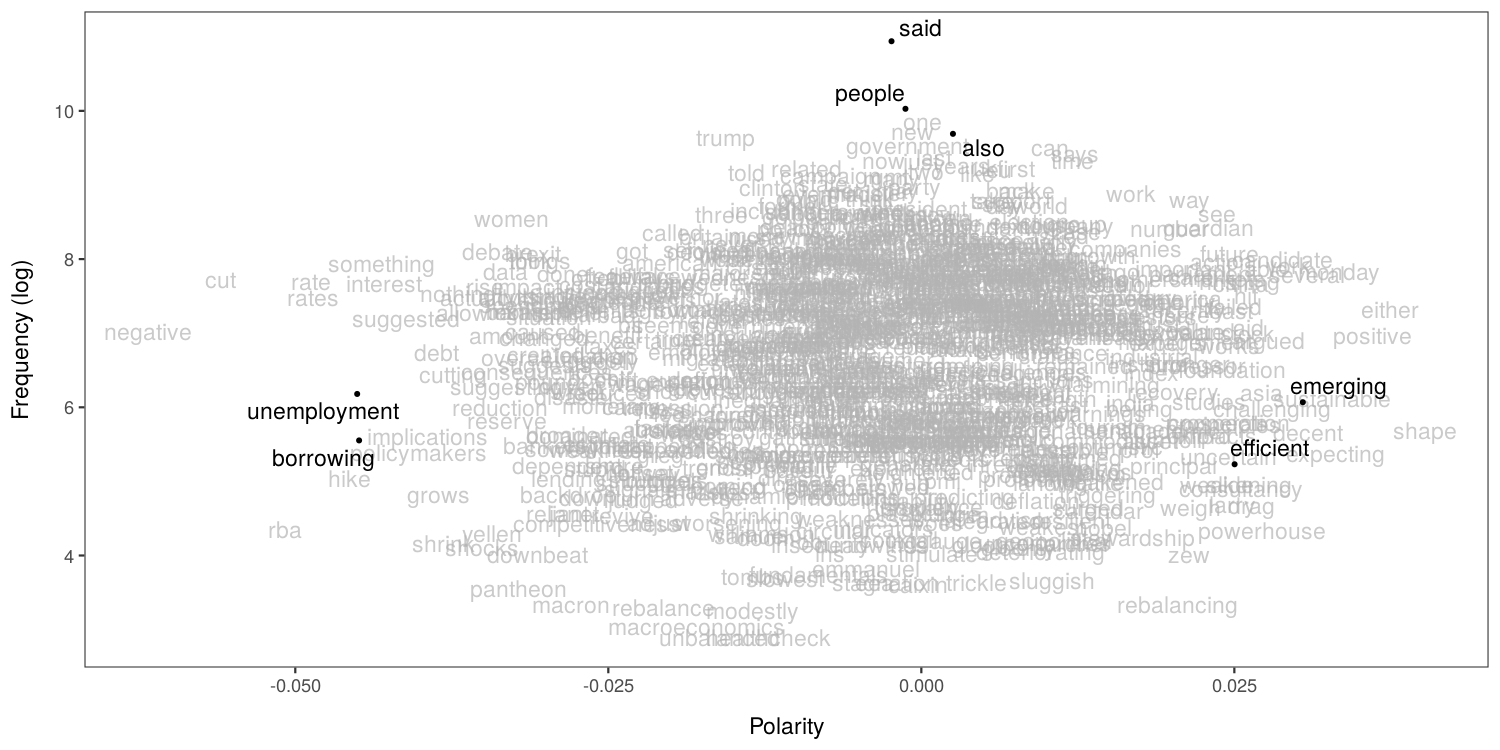
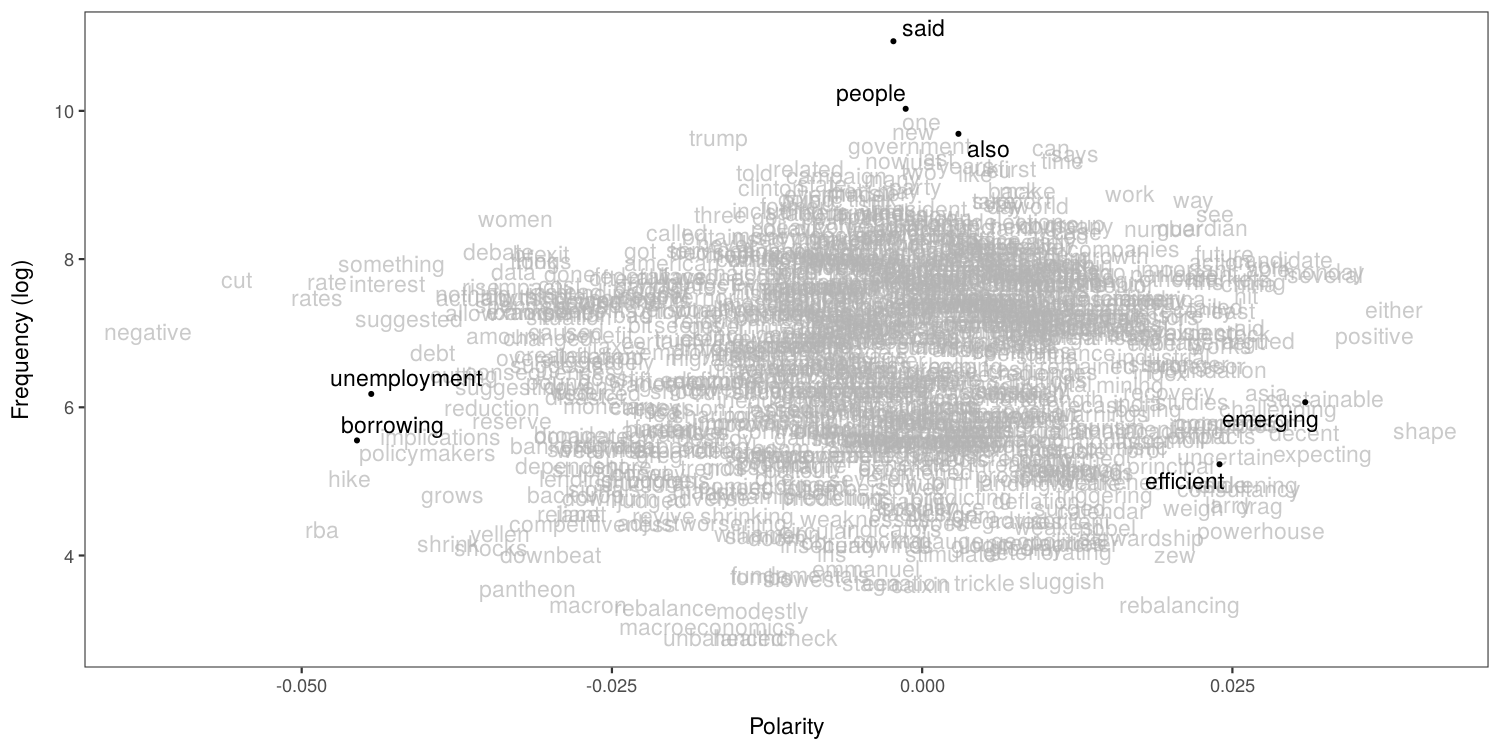
Include download code

diff --git a/README.md b/README.md
@@ -10,23 +10,23 @@ semisupervised document scaling method that I developed to perform large
 scale analysis at low cost. Taking user-provided *seed words* as weak
 supervision, it estimates polarity of words in the corpus by latent
 semantic analysis and locates documents on a unidimensional scale
-(e.g. sentiment).
+(e.g. sentiment).
 
 I used LSS for large scale analysis of media content in several research
 projects:
 
   - Kohei Watanabe, 2017. “[Measuring News Bias: Russia’s Official News
     Agency ITAR-TASS’s Coverage of the Ukraine
-    Crisis](https://journals.sagepub.com/eprint/TBc9miIc89njZvY3gyAt/full)”,
+    Crisis](http://journals.sagepub.com/eprint/TBc9miIc89njZvY3gyAt/full)”,
     *European Journal Communication*
   - Kohei Watanabe, 2017. “[The spread of the Kremlin’s narratives by a
     western news agency during the Ukraine
-    crisis](https://www.tandfonline.com/eprint/h2IHsz2YKce6uJeeCmcd/full)”,
+    crisis](http://www.tandfonline.com/eprint/h2IHsz2YKce6uJeeCmcd/full)”,
     *Journal of International Communication*
   - Tomila Lankina and Kohei Watanabe. 2017. ["Russian Spring’ or
     ‘Spring Betrayal’? The Media as a Mirror of Putin’s Evolving
     Strategy in
-    Ukraine](https://www.tandfonline.com/eprint/tWik7KDfsZv8C2KeNkI5/full)",
+    Ukraine](http://www.tandfonline.com/eprint/tWik7KDfsZv8C2KeNkI5/full)",
     *Europe-Asia Studies*
 
 Please read [my working
@@ -57,8 +57,10 @@ require(LSX) # changed from LSS to LSX
 ```
 
 ``` r
-corp <- readRDS("/home/kohei/Dropbox/Public/data_corpus_guardian2016-10k.rds")
+corp <- readRDS(url("https://bit.ly/2GZwLcN", "rb"))
+```
 
+``` r
 toks_sent <- corp %>% 
     corpus_reshape("sentences") %>% 
     tokens(remove_punct = TRUE) %>% 
@@ -73,7 +75,7 @@ lss <- textmodel_lss(dfmt_sent, as.seedwords(data_dictionary_sentiment),
                      terms = eco, k = 300, cache = TRUE)
 ```
 
-    ## Writing cache file: lss_cache/svds_365ae974a33cb811.RDS
+    ## Writing cache file: lss_cache/svds_8e72ad5098cf6376.RDS
 
 ### Sentiment seed words
 
@@ -98,27 +100,27 @@ to seed words.
 head(coef(lss), 20) # most positive words
 ```
 
-    ##       shape      either    positive      monday   expecting sustainable 
-    ##  0.04020799  0.03744890  0.03601425  0.03336808  0.03307447  0.03276316 
-    ##      decent     several    emerging        york   candidate challenging 
-    ##  0.03084397  0.03076411  0.03047059  0.02929349  0.02883675  0.02800941 
-    ##      argued        able  powerhouse        asia       thing        drag 
-    ##  0.02774260  0.02751587  0.02719956  0.02716442  0.02661455  0.02635362 
-    ##         aid       stock 
-    ##  0.02610316  0.02607838
+    ##       shape      either    positive     several sustainable      monday 
+    ##  0.04050151  0.03805443  0.03643996  0.03248623  0.03244807  0.03240911 
+    ##   expecting    emerging      decent   candidate challenging        york 
+    ##  0.03229806  0.03086714  0.03079337  0.02899715  0.02867746  0.02791129 
+    ##        able        asia       thing  powerhouse        drag      argued 
+    ##  0.02787632  0.02772680  0.02733644  0.02727044  0.02715067  0.02712570 
+    ##         aid       china 
+    ##  0.02640394  0.02634768
 
 ``` r
 tail(coef(lss), 20) # most negative words
 ```
 
-    ##     actually        allow      nothing      cutting       shrink        grows 
-    ##  -0.03531395  -0.03665382  -0.03701008  -0.03737425  -0.03813055  -0.03854666 
-    ##         debt implications policymakers    suggested     interest    something 
-    ##  -0.03872572  -0.03944662  -0.04014394  -0.04113985  -0.04290556  -0.04311326 
-    ##    borrowing unemployment         hike        rates         rate          rba 
-    ##  -0.04490317  -0.04505639  -0.04570329  -0.04859105  -0.04875628  -0.05079627 
+    ##     actually      nothing        allow      cutting        grows       shrink 
+    ##  -0.03599093  -0.03620681  -0.03629741  -0.03694543  -0.03784115  -0.03813461 
+    ## implications         debt policymakers    suggested    something     interest 
+    ##  -0.03883518  -0.03948326  -0.03985111  -0.04133722  -0.04274804  -0.04315672 
+    ## unemployment    borrowing         hike         rate          rba        rates 
+    ##  -0.04439511  -0.04554508  -0.04612325  -0.04799337  -0.04836243  -0.04877024 
     ##          cut     negative 
-    ##  -0.05596225  -0.06174176
+    ##  -0.05523845  -0.06236406
 
 This plot shows that frequent words (“said”, “people”, “also”) are
 neutral while less frequent words such as “borrowing”, “unemployment”,
